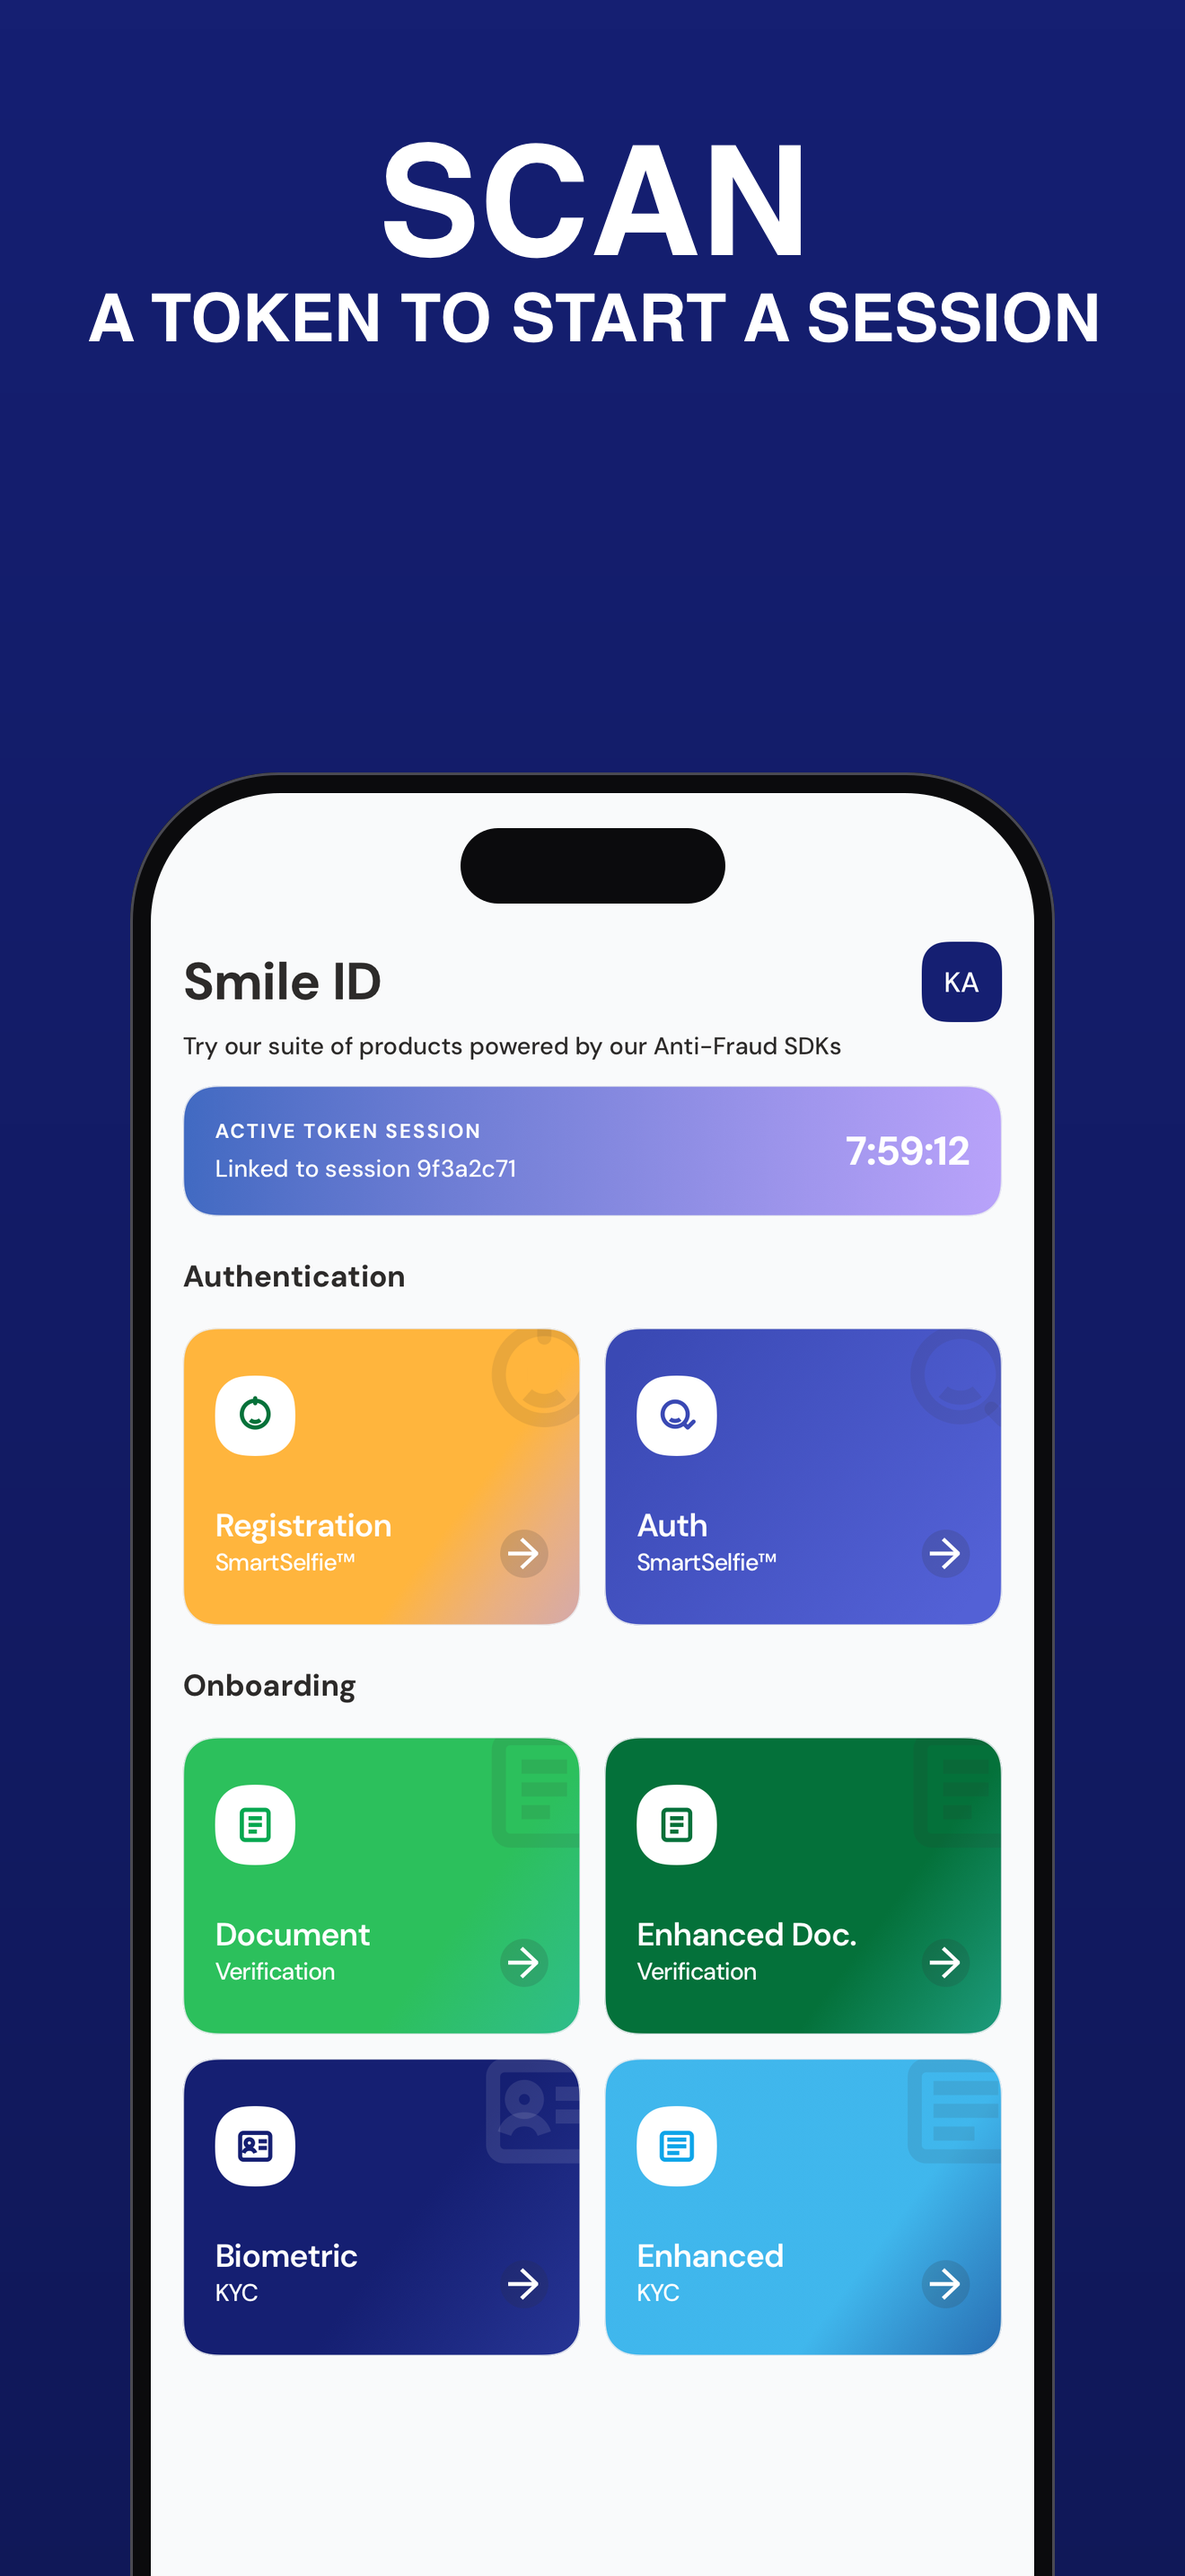
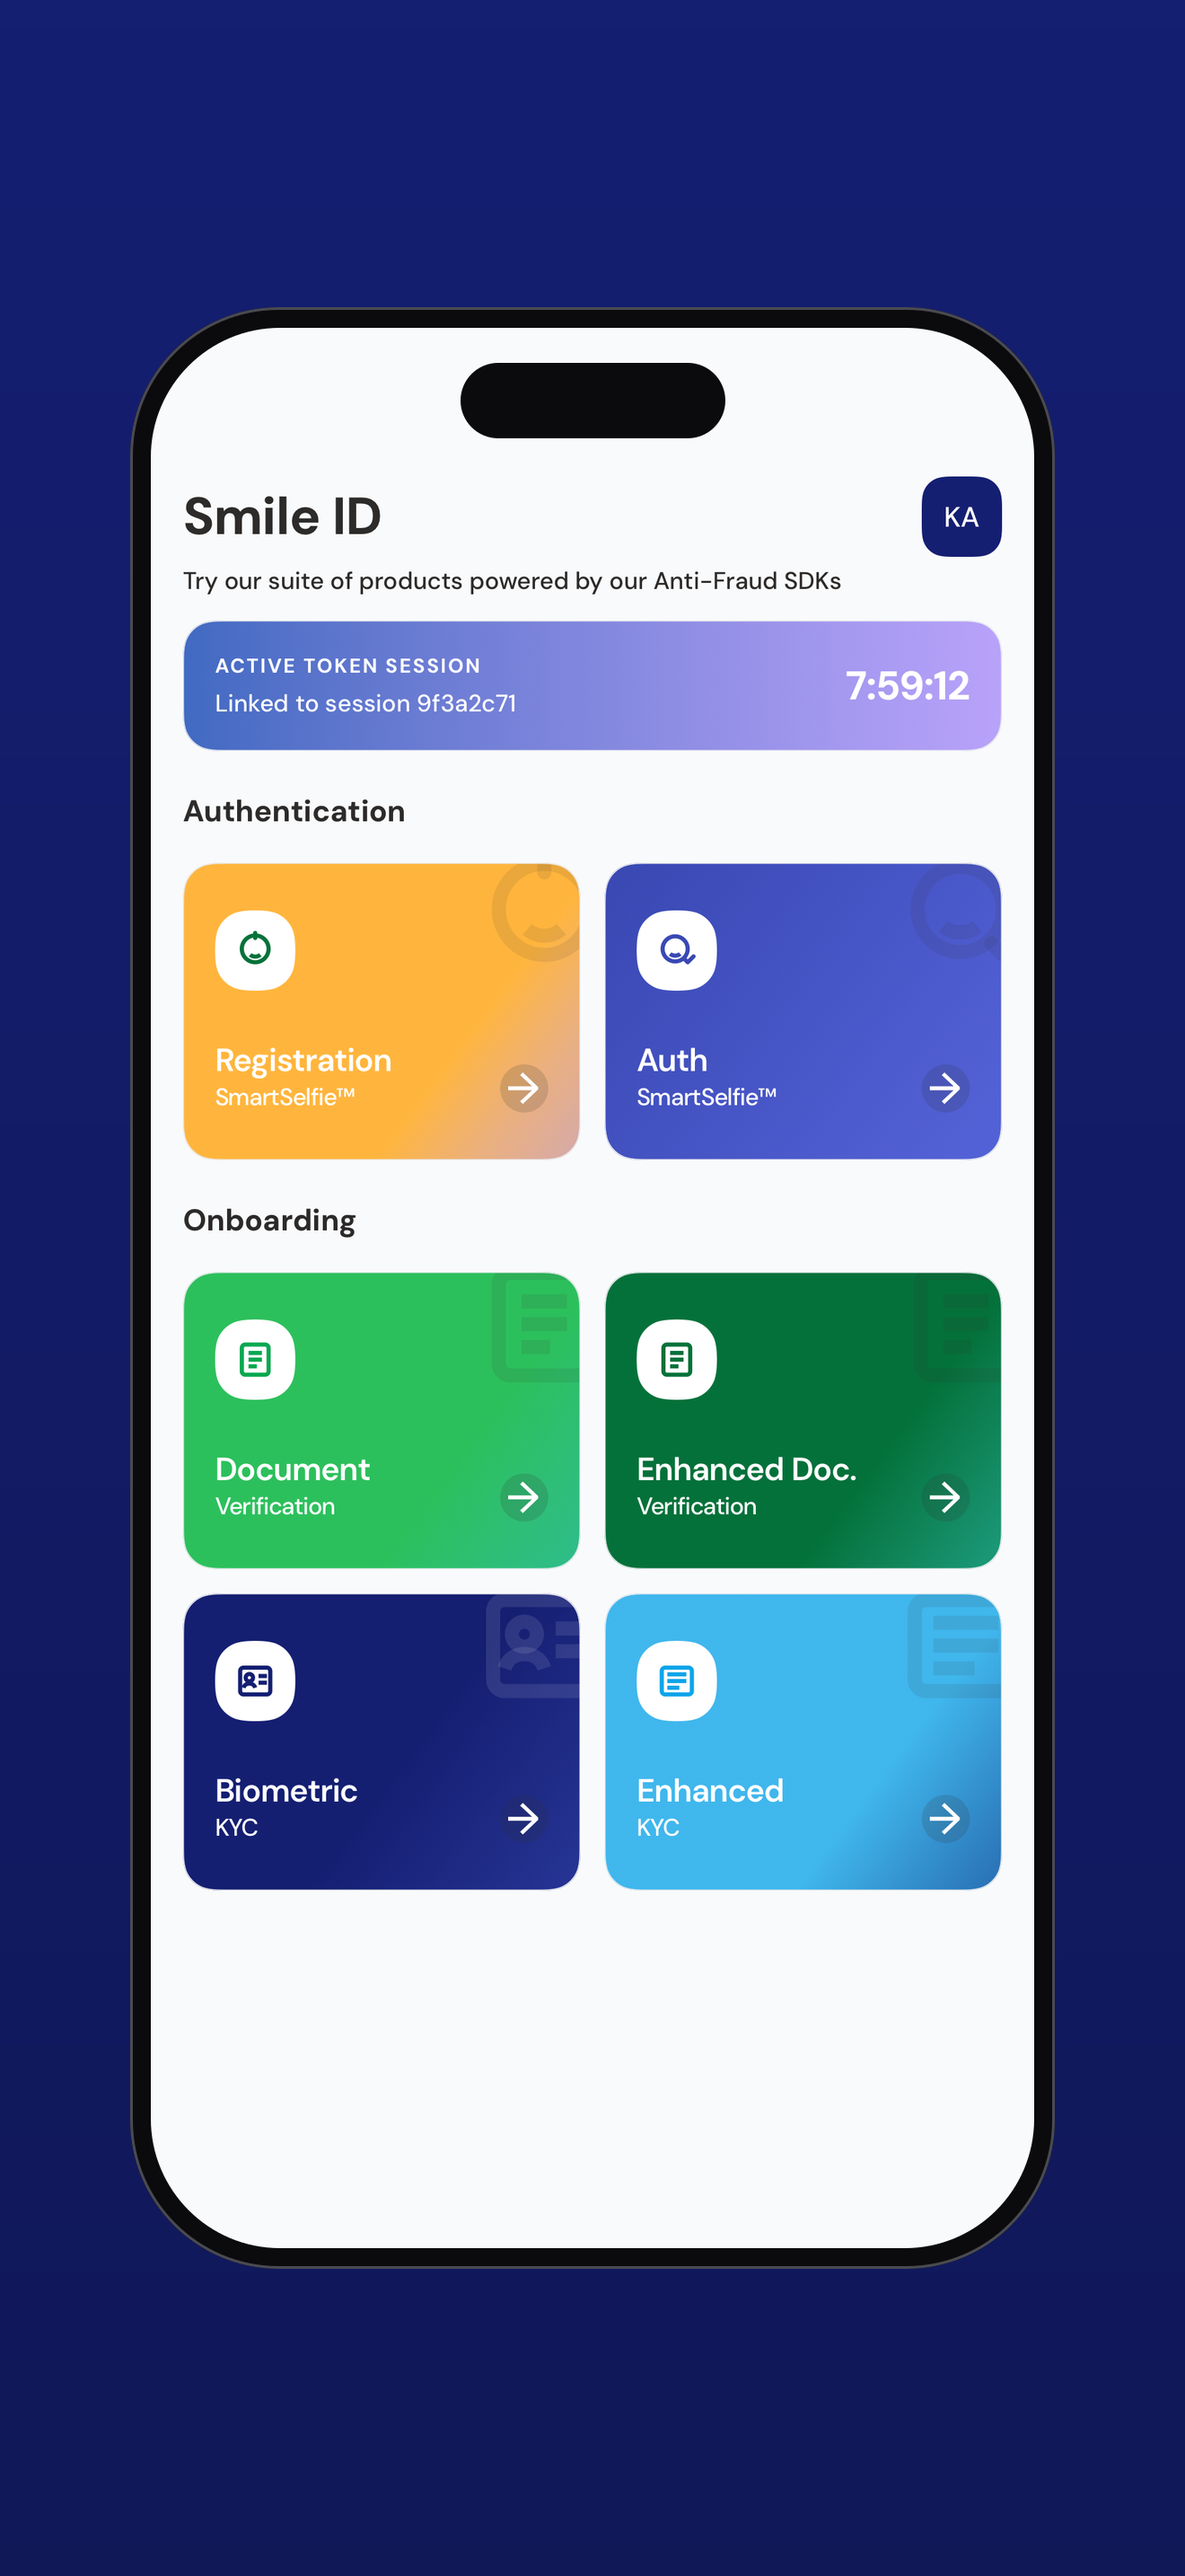
feat: drop the store-art headlines and rename the Android app to Smile ID

diff --git a/android/app/src/main/kotlin/com/usesmileid/sampleapps/android/navigation/SettingsDestinations.kt b/android/app/src/main/kotlin/com/usesmileid/sampleapps/android/navigation/SettingsDestinations.kt
@@ -193,7 +193,7 @@ private fun rememberWarmCustomTabsSession(): CustomTabsSession? {
     return session
 }
 
-// Brand copy rather than the launcher label — see spec/app-identity.json.
-private const val APP_DISPLAY_NAME = "Smile ID Sample App"
+// The product name, as the launcher label and both store listings carry it — see spec/app-identity.json.
+private const val APP_DISPLAY_NAME = "Smile ID"
 
 private const val LICENSES_ASSET = "licenses.json"

diff --git a/android/sample-ui/src/test/kotlin/com/usesmileid/sampleapps/ui/golden/ScreenGoldenTest.kt b/android/sample-ui/src/test/kotlin/com/usesmileid/sampleapps/ui/golden/ScreenGoldenTest.kt
@@ -218,7 +218,7 @@ private fun Settings(
         settings = settings,
         organisation = ProfileFixtures.WithCreated.all[profileIndex].organisation,
         initials = ProfileFixtures.WithCreated.all[profileIndex].initials,
-        versionLabel = "Smile ID Sample App · 1.0.0",
+        versionLabel = "Smile ID · 1.0.0",
         consentBoundByToken = consentBoundByToken,
         avatarColor = avatarColorForProfile(profileIndex),
     ),

diff --git a/android/sample-ui/src/test/kotlin/com/usesmileid/sampleapps/ui/storeart/StoreArtTest.kt b/android/sample-ui/src/test/kotlin/com/usesmileid/sampleapps/ui/storeart/StoreArtTest.kt
@@ -93,7 +93,7 @@ class StoreArtTest {
                 settings = UseSmileIDSampleSettings(),
                 organisation = "UpTech Finance",
                 initials = "KA",
-                versionLabel = "Smile ID Sample App · 1.0.0",
+                versionLabel = "Smile ID · 1.0.0",
                 consentBoundByToken = false,
             ),
             onSettingChange = { _, _ -> },

diff --git a/android/app/src/test/kotlin/com/usesmileid/sampleapps/android/UseSmileIDSamplePlayListingTest.kt b/android/app/src/test/kotlin/com/usesmileid/sampleapps/android/UseSmileIDSamplePlayListingTest.kt
@@ -27,7 +27,7 @@ class UseSmileIDSamplePlayListingTest {
 
     @Test
     fun `the store title is the identity the spec settled`() {
-        assertEquals("UseSmileID Sample", listing("title.txt"))
+        assertEquals("Smile ID", listing("title.txt"))
     }
 
     @Test

diff --git a/scripts/check_store_listing.py b/scripts/check_store_listing.py
@@ -83,6 +83,10 @@ def check_copy(problems: list[str]) -> None:
         problems.append("description.txt must name the first product as the app's own list does")
     if "SmartSelfie™ Registration" in description:
         problems.append("description.txt uses docs-v3's name; the listing takes the app's, by owner ruling")
+    # Both stores ship one description since the Android rename; a docs-v3 change lands in both or neither.
+    play_description = ROOT / "android" / "play" / "full-description.txt"
+    if play_description.exists() and play_description.read_text(encoding="utf-8") != description:
+        problems.append("description.txt differs from android/play/full-description.txt; the stores share one")
 
 
 def check_images(problems: list[str], kind: str, directory: Path, suffix: str, *, alpha_ok: bool) -> list[str]:

diff --git a/docs/plan/app-store-release-ios.md b/docs/plan/app-store-release-ios.md
@@ -18,7 +18,8 @@ noted:
 - The **app is named "Smile ID"** — launcher label and store name — by owner ruling 2026-09-13, so the
   listing reads as the product a partner searches for. Android, Flutter and Expo rename after this
   release; the shared description still opens with the old name until Android's copy moves, and
-  that is the one visible seam accepted to keep the release moving.
+  that is the one visible seam accepted to keep the release moving. Android moved on 2026-09-14, so
+  the seam is closed.
 - **Phone-only** — §6.2 is the code that decides it, and it is the same code shape Android's §6.2 read.
 - The **app icon has landed** (#81) from `svgs/ios.svg`, gated by `scripts/generate_app_icon.py --check`
   in `ios/verify.sh`. §4 says why nothing here touches it.
@@ -169,9 +170,12 @@ over all five.
 `showcase` strip for review. Three of Android's findings are taken as settled rather than re-learned:
 
 - **One layout variant for the whole set.** Every panel is `text-top`, so the device sits at the same
-  height throughout. Variety comes from the headlines and the screens.
+  height throughout. Variety comes from the headlines and the screens. *Since 2026-09-14 there is no
+  headline: the panels are the screen alone, whole device centred, on both platforms — see the Android
+  plan's §2.6 for the ruling and `scripts/compose-store-panel.mjs` for how.*
 - **No headline states a count**, and the nouns come from `docs-v3` — *verification result*, and its
-  *status* and *message*, which are also the words on the app's own status pills.
+  *status* and *message*, which are also the words on the app's own status pills. *The rule now
+  governs the listing copy, the panels having no words.*
 - **The output directory holds store art and nothing else.** Android's review strip sitting among the
   panels failed its release lane, which validated it as a phone screenshot. Here the strip is written
   to `ios/store/showcase.png`, a level above `ios/store/screenshots/`.
@@ -286,14 +290,15 @@ first line a reviewer reads should not contradict the title above it. The produc
 themselves are unchanged, so a `docs-v3` change still has one blast radius. **The divergence closes
 when Android renames:** the Play title and the first sentence of `full-description.txt` move together,
 and the two files are identical again — recorded in the Android plan's follow-ups so the rename
-cannot land without it.
+cannot land without it. **Closed 2026-09-14:** Android renamed, the files are identical, and
+`scripts/check_store_listing.py` holds them so.
 
 **What the App Store forces to differ is field shape, not voice.** Its limits are not Play's, and one
 of them does not fit:
 
 | Field | App Store limit | Play counterpart | Action |
 |---|---|---|---|
-| Name | 30 | title, 30 | "Smile ID" (8) — renamed 2026-09-13; Play's title follows later |
+| Name | 30 | title, 30 | "Smile ID" (8) — renamed 2026-09-13; Play's title followed 2026-09-14 |
 | **Subtitle** | **30** | short description, 80 | **new copy needed**: Play's is 67 characters |
 | Description | 4000 | full description, 4000 | unchanged (3030) |
 | Promotional text | 170 | — | new, and editable without a build |
@@ -539,7 +544,7 @@ release lane's assertions all pass `-o -`, with a comment saying why.
 ### 7.2 What is owed, and what it does not block
 
 - **The camera panel** needs a device, exactly as Android's REL-A9 does. The composer already has its
-  slot and its headline; five panels are rendered and Apple requires one, so it blocks nothing.
+  slot; five panels are rendered and Apple requires one, so it blocks nothing.
 - **The `verification_details` panel is the weak one**, and it is weak for precisely the reason Android
   recorded: hiding the debug result card leaves the screen sparse. That hiding is not optional — a
   plain release install has `showProbes` false, and store art showing a state a reviewer's own build
@@ -554,8 +559,8 @@ release lane's assertions all pass `-o -`, with a comment saying why.
   affected — the form is what Apple reads — but the next TestFlight build closes the gap.
 - **Play's Data safety form owes Email address and Phone number** — the same finding, on the other
   store; `docs/play-data-safety.md` marks the rows owed and the Android plan carries the follow-up.
-- **The description's first sentence diverges from Play's** (§5) until Android renames to "Smile ID";
-  the Android rename changes the Play title and that sentence in the same PR.
+- ~~The description's first sentence diverges from Play's (§5) until Android renames to "Smile ID".~~
+  **Closed 2026-09-14** by the Android rename, which moved the Play title and that sentence together.
 - ~~The two stores show different demo data for the same app.~~ **Ruled 2026-09-13: iOS takes
   Android's** — `UpTech Finance` / `KA` / session `9f3a2c71` at `7:59:12`, a countdown both apps'
   formatters actually produce. Both store-art tests now carry the same literals; lifting them into
@@ -619,9 +624,10 @@ a shape that will recur in the Flutter and Expo ports.
 ## 8. Parity — what Flutter and Expo inherit
 
 **Unchanged from Android, and now proved twice:** capture from committed deterministic renders; one
-layout variant for the whole set; headlines from `docs-v3` nouns with no count; fixture-only data in
-every published frame; store art committed and staleness-gated; the art directory holding nothing
-else; release notes written by a person; one monotonic build number across every lane, computed once.
+layout variant for the whole set; no headline on a panel since 2026-09-14 (the `docs-v3` nouns rule
+moved to the listing copy); fixture-only data in every published frame; store art committed and
+staleness-gated; the art directory holding nothing else; release notes written by a person; one
+monotonic build number across every lane, computed once.
 
 **What the iOS release learned that Flutter and Expo should not re-learn:**
 

diff --git a/docs/plan/play-release-android.md b/docs/plan/play-release-android.md
@@ -18,7 +18,8 @@ this plan adds no screens.
 - `targetSdk = 37` is **accepted by Play today**, so REL-A14 is a periodic re-check, not a blocker.
 - The **v11 upload key is reused** (§3).
 - The **store title takes the spec name**, "UseSmileID Sample", on the understanding that a store title
-  is one of the cheapest things on a listing to change later.
+  is one of the cheapest things on a listing to change later — and it changed: the title became
+  "Smile ID" on 2026-09-14 (§7.4).
 - **Data safety mirrors v11 wherever the two apps behave the same** — and §6.1 shows they do, on every
   question the form asks.
 - **Phone-only. No tablet art** — §6.2 is the code that decides it.
@@ -192,6 +193,11 @@ pills. Two earlier drafts read as developer shorthand ("every field of a result"
 ("every run and its status"); the docs' vocabulary fixed both. The details panel then took its
 descriptor from the screen's own title, "Verification details", rather than naming two of the five
 fields it shows.
+
+**The headlines came off on 2026-09-14** (owner ruling): every panel is now the screen alone — storeshots'
+background, gradient and frame with the whole device centred, composed by `scripts/compose-store-panel.mjs`
+because storeshots refuses an empty headline, then validated by storeshots as before. The listing copy
+carries the words, so the two rules above now govern that copy rather than the art.
 
 ### 2.7 What building the pipeline changed
 
@@ -599,11 +605,13 @@ None of these blocks anything, and none of them belongs to Android's critical pa
   touched for it now. The rename travels with the sample-ui port to the four SDKs — that is when those
   apps get built and when the collision first becomes real. `spec/app-identity.json` carries the target
   ids so the work is a lookup rather than a re-decision.
-- **The rename to "Smile ID" is owed, and it carries a sentence with it.** The iOS app shipped under the
-  store name "Smile ID" on 2026-09-13 (its plan's §5), so its description now opens *"Smile ID is the
-  reference app…"* while `full-description.txt` here still opens *"UseSmileID Sample is…"*. When the
-  Play title moves to "Smile ID", change that first sentence in the same PR — the two descriptions are
-  then identical again, and the shared-paragraph rule in §8 holds without an exception.
+- ~~**The rename to "Smile ID" is owed, and it carries a sentence with it.**~~ **Done 2026-09-14.** The iOS
+  app shipped under the store name "Smile ID" on 2026-09-13 (its plan's §5), so its description opened
+  *"Smile ID is the reference app…"* while `full-description.txt` here still opened *"UseSmileID Sample
+  is…"*. Launcher label, Play title, Settings footer and that first sentence moved together; the two
+  descriptions are identical again and `scripts/check_store_listing.py` now fails if they drift apart.
+  The Console still takes title and description by hand (REL-A5: no fastlane), so paste both at the
+  next internal publish; the upload action carries only `whatsnew/`.
 - **Data safety owes two rows.** The user-details form sends email and phone with a submission, and
   neither is declared. Found 2026-09-14 while the iOS App Privacy form was filled from the same
   derivation; `docs/play-data-safety.md` marks them owed. Add both at the next Play release.
@@ -631,7 +639,8 @@ time here:
   size and height in every panel, which reads as inconsistency.
 - **Headlines take their nouns from `docs-v3` and never state a count.** "Six products" is wrong the day
   a product is added. `docs-v3` calls the record a *verification result* and describes it by *status*
-  and *message*; those words are also what the app's status pills say.
+  and *message*; those words are also what the app's status pills say. *Since 2026-09-14 the panels
+  carry no headline at all (§2.6), so this rule now governs the listing copy.*
 - **Whatever directory the store art lands in must contain only store art.** The review strip sitting
   among the panels failed the release lane, which validated it as a phone screenshot.
 - **Check the rendered output, not the raw frames.** Both the cutout collision and the variant problem
